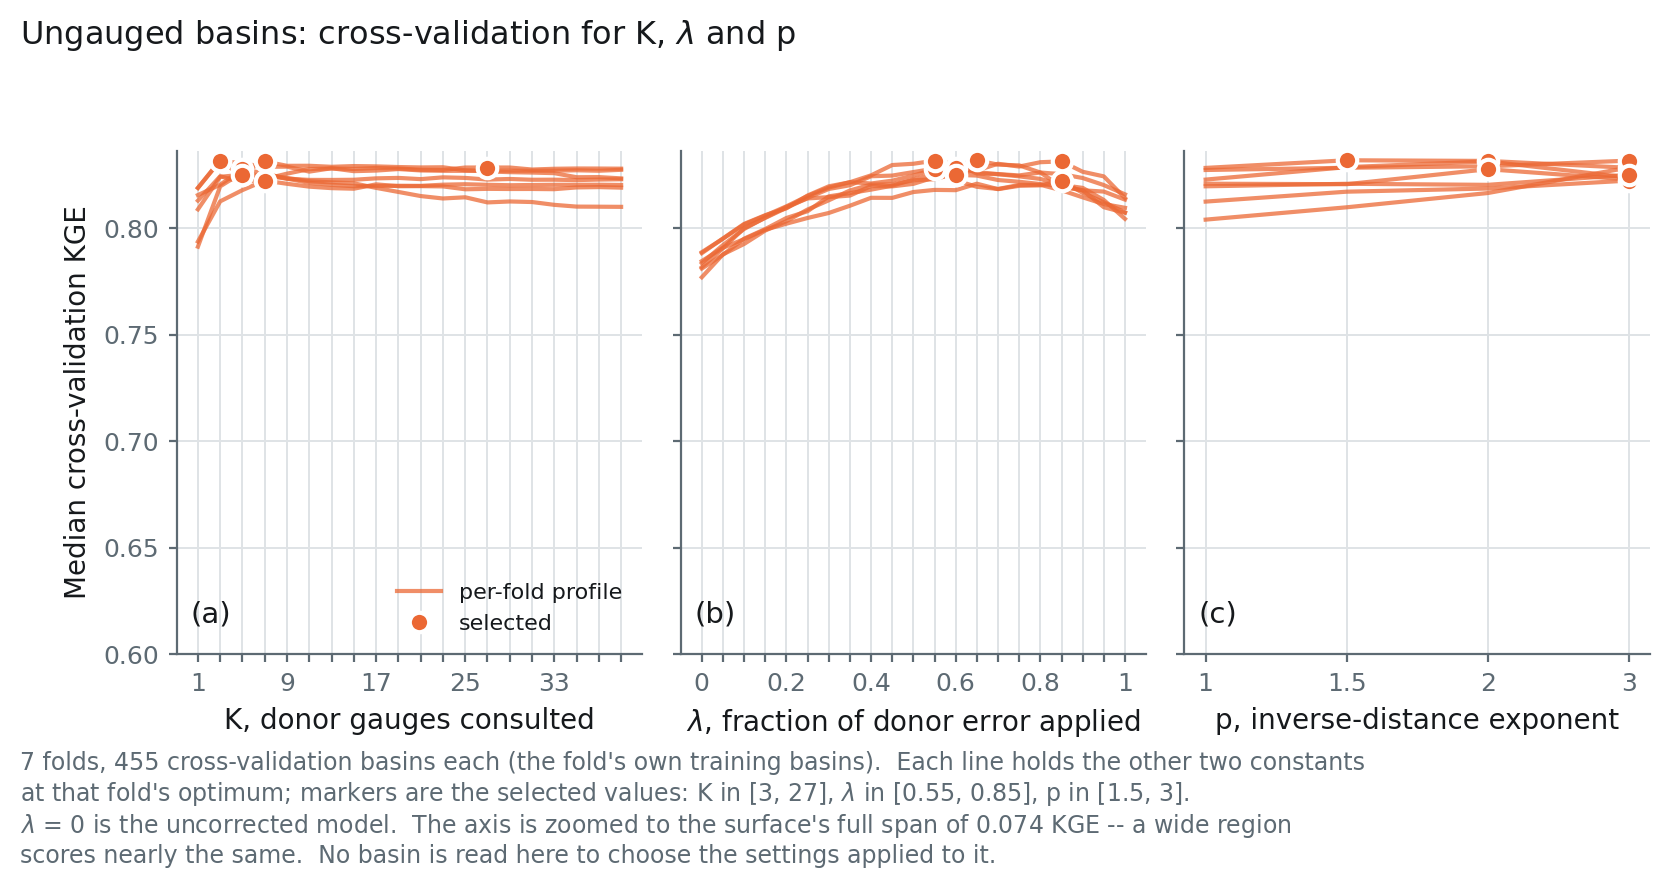
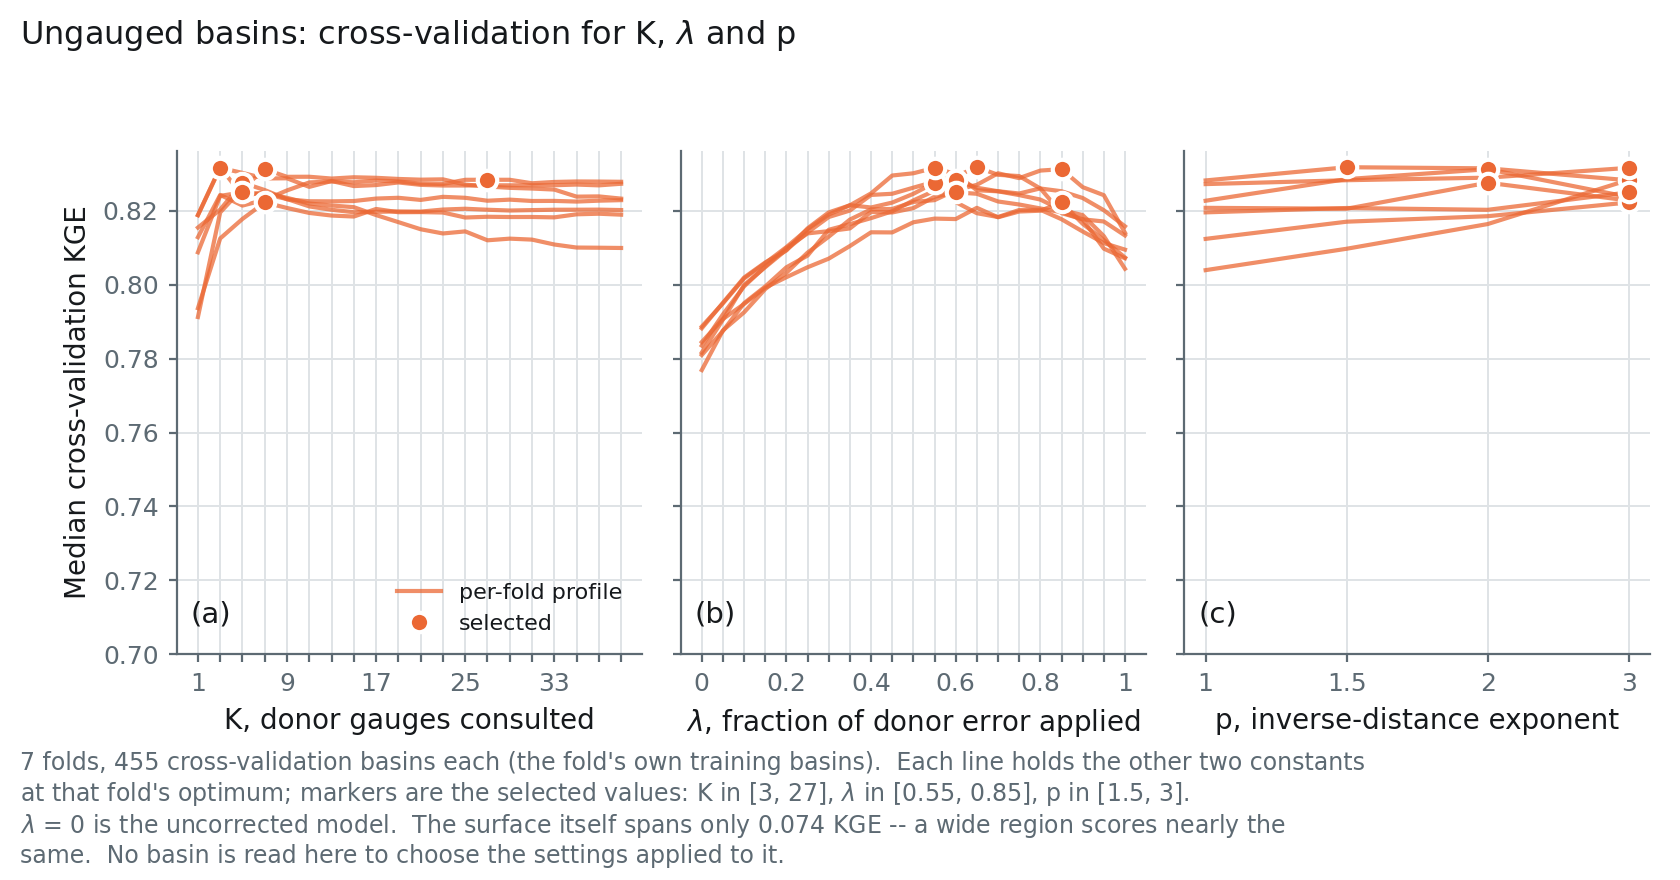
Tighten axis limits on the CDF and hyperparameter figures
CDF: x-axis starts at 0 instead of -0.2 for both the NSE and KGE panels.
Hyperparameter surface: y-axis floors at 0.7 instead of 0.6, caption updated
to match (it no longer claims the axis is zoomed to the surface's own span).

diff --git a/figures/make_hyperparam.py b/figures/make_hyperparam.py
@@ -87,7 +87,7 @@ def main(cell):
         # did) makes ordinary sampling noise look like a dramatic shape. 0.6 keeps the profiles
         # readable while still showing them clearly above the uncorrected floor.
         pad = 0.06 * (df.score.max() - df.score.min())
-        ax.set_ylim(0.6, df.score.max() + pad)
+        ax.set_ylim(0.7, df.score.max() + pad)
         style(ax)
     axes[1].tick_params(labelleft=False)
     axes[2].tick_params(labelleft=False)
@@ -105,9 +105,9 @@ def main(cell):
                           f"({CV_POOL[cell]}).  "
                           f"Each line holds the other two constants at that fold's optimum; "
                           f"markers are the selected values: {', '.join(spans)}.  $\\lambda$ = 0 "
-                          f"is the uncorrected model.  The axis is zoomed to the surface's full "
-                          f"span of {df.score.max() - df.score.min():.3f} KGE -- a wide region "
-                          f"scores nearly the same.  No basin is read here to choose the settings "
+                          f"is the uncorrected model.  The surface itself spans only "
+                          f"{df.score.max() - df.score.min():.3f} KGE -- a wide region scores "
+                          f"nearly the same.  No basin is read here to choose the settings "
                           f"applied to it.", 118)
     fig.tight_layout(rect=(0.02, bottom, 1, 0.94))
     out = f"{HERE}/{cell}_hyperparameters.png"

diff --git a/figures/make_cdf.py b/figures/make_cdf.py
@@ -48,7 +48,7 @@ def main(cell):
             ax.plot([np.median(v)], [0.5], "o", ms=7, color=color, markeredgecolor="white",
                     markeredgewidth=1.6, zorder=4)
         ax.axhline(0.5, color=MUTE, lw=0.8, ls=(0, (4, 3)), zorder=1)
-        ax.set_xlim(-0.2, 1.0)
+        ax.set_xlim(0, 1.0)
         ax.set_ylim(0, 1)
         ax.set_xlabel(xlabel, color=INK, fontsize=LABEL)
         ax.set_ylabel("fraction of basins at or below", color=INK, fontsize=LABEL)
